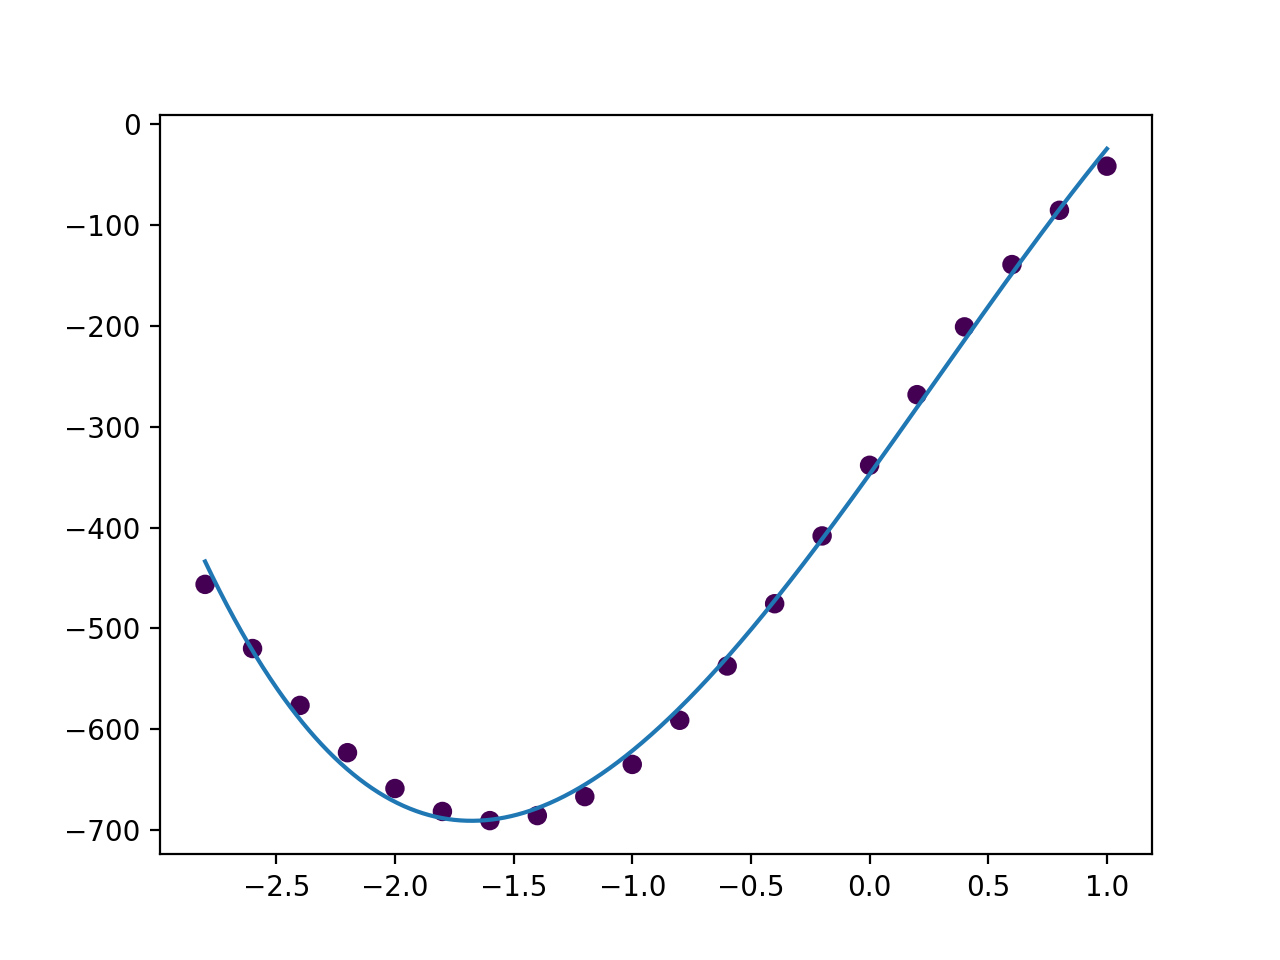
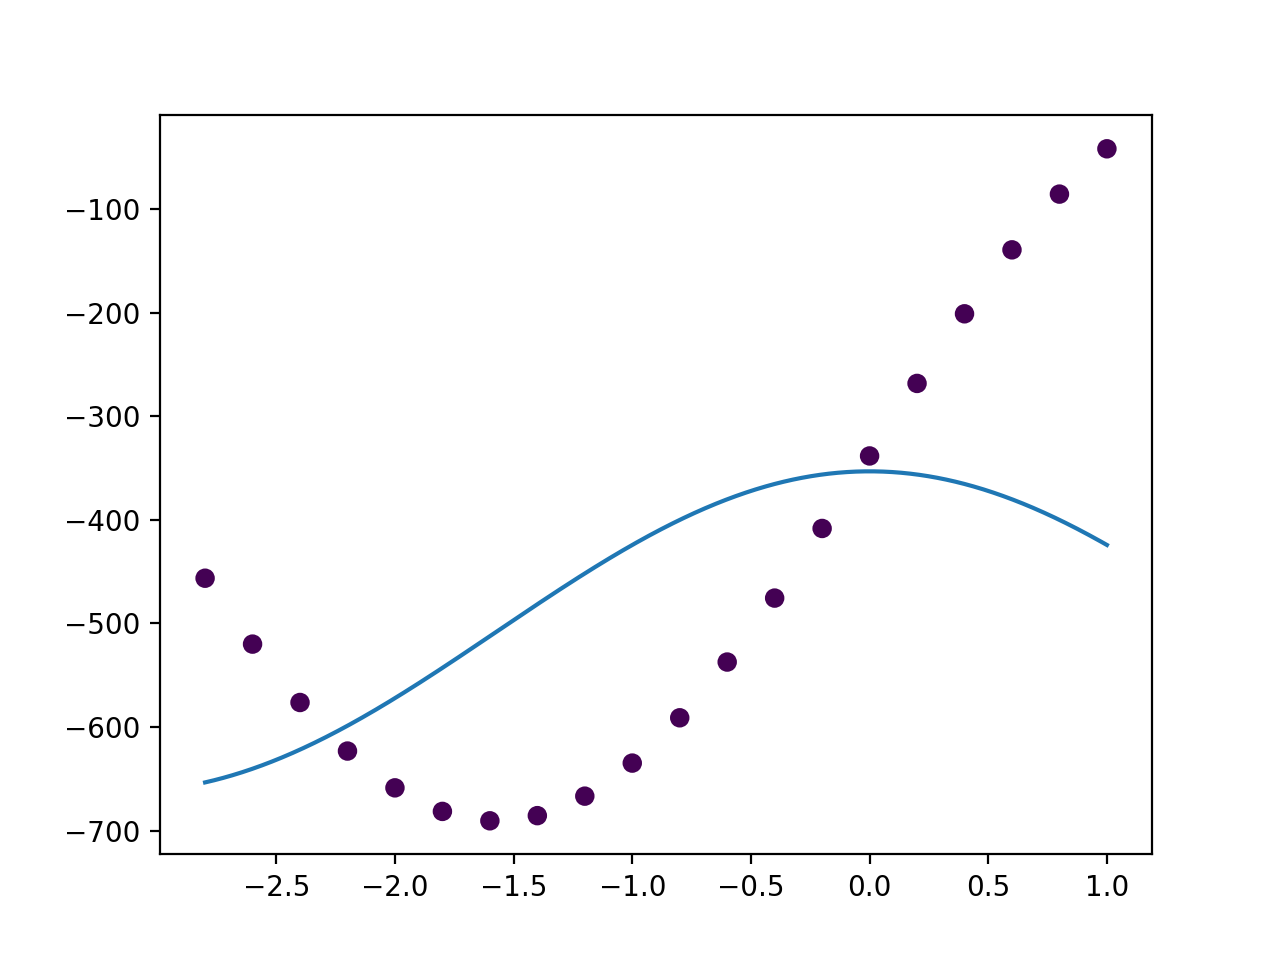
Fixed errors in how cosine graph is displayed and updated report

diff --git a/report/report.tex b/report/report.tex
@@ -113,9 +113,9 @@ that the polynomial line segments in the unknown signal are cubic.
 
 \begin{figure}[htbp]
     \centering
-    \subfloat[Quadratic fit]{\includegraphics[width = 0.4\textwidth]{images/basic_3_quadratic.png}\label{fig:basic_3_quadratic.csv}}
+    \subfloat[Quadratic fit]{\includegraphics[width = 0.45\textwidth]{images/basic_3_quadratic.png}\label{fig:basic_3_quadratic.csv}}
     \hfill
-    \subfloat[Cubic fit]{\includegraphics[width = 0.4\textwidth]{images/basic_3.png}\label{fig:basic_3_cubic.csv}}
+    \subfloat[Cubic fit]{\includegraphics[width = 0.45\textwidth]{images/basic_3.png}\label{fig:basic_3_cubic.csv}}
     \caption{Two fits for `\texttt{basic\_3.csv}'}
     \label{fig:basic_3.csv}
 \end{figure}
@@ -131,20 +131,18 @@ is clearly not as good a fit as the cubic fit shown in Figure \ref{fig:basic_3_c
 
 Using my `\texttt{display.py}' program to visualise the
 signals, I produced a list of potential `unknown functions'
-that could represent the underlying signal of line segments,
+that could represent the underlying signal of line segments
 based on their shapes:
 $\vb{w}_{1}sin(x) + \vb{w}_{2}$,
 $\vb{w}_{1}cos(x) + \vb{w}_{2}$,
 $\vb{w}_{1}tan(x) + \vb{w}_{2}$ and
 $\vb{w}_{1}e^{x} + \vb{w}_{2}$.
-
 I then created a program, `\texttt{unknown.py}', that
 calculated the cross-validation error for each of the
 nonlinear line segments previously identified when
 trained using each of the potential unknown functions.
 A table displayed the cross-validation errors---similar 
 to that used to determine the polynomial degree.
-
 Having analysed the cross-validation errors, it was clear
 that all nonlinear signals that were likely not
 a cubic polynomial had their minimum cross-validation
@@ -153,12 +151,16 @@ $\vb{w}_{1}sin(x) + \vb{w}_{2}$.
 
 \begin{figure}[htbp]
     \centering
-    \subfloat[Cosine fit]{\includegraphics[width = 0.4\textwidth]{images/basic_5_cosine.png}\label{fig:basic_5_cosine.csv}}
+    \subfloat[Cosine fit]{\includegraphics[width = 0.45\textwidth]{images/basic_5_cosine.png}\label{fig:basic_5_cosine.csv}}
     \hfill
-    \subfloat[Sine fit]{\includegraphics[width = 0.4\textwidth]{images/basic_5.png}\label{fig:basic_5_sine.csv}}
+    \subfloat[Sine fit]{\includegraphics[width = 0.45\textwidth]{images/basic_5.png}\label{fig:basic_5_sine.csv}}
     \caption{Two fits for `\texttt{basic\_3.csv}'}
     \label{fig:basic_5.csv}
 \end{figure}
+
+However, when trained to fit the function $\vb{w}_{1}cos(x) + \vb{w}_{2}$
+the cross-validation errors were also quite small.
+To 
 
 Having incorporated regression to fit a function of the
 form $\vb{w}_{1}sin(x) + \vb{w}_{2}$ into my 
@@ -176,9 +178,9 @@ the form $\vb{w}_{1}sin(x) + \vb{w}_{2}$ visually.
 
 \begin{figure}[htbp]
     \centering
-    \subfloat[Cubic fit]{\includegraphics[width = 0.4\textwidth]{images/noise_2_0_polynomial.png}\label{fig:f1}}
+    \subfloat[Cubic fit]{\includegraphics[width = 0.45\textwidth]{images/noise_2_0_polynomial.png}\label{fig:f1}}
     \hfill
-    \subfloat[Linear fit]{\includegraphics[width = 0.4\textwidth]{images/noise_2_0_linear.png}\label{fig:f2}}
+    \subfloat[Linear fit]{\includegraphics[width = 0.45\textwidth]{images/noise_2_0_linear.png}\label{fig:f2}}
     \caption{Two fits for the first line segment in `\texttt{noise\_2.csv}'}
     \label{fig:noise_2.csv}
 \end{figure}
